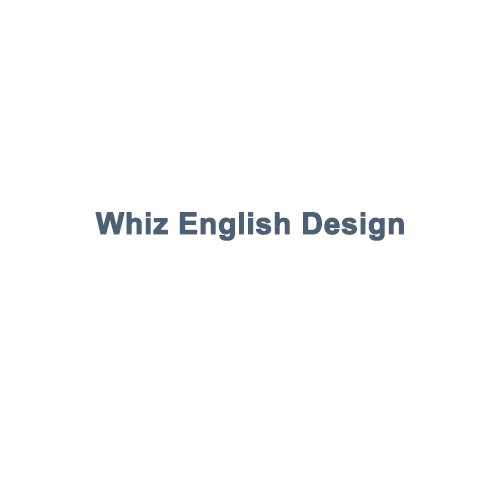
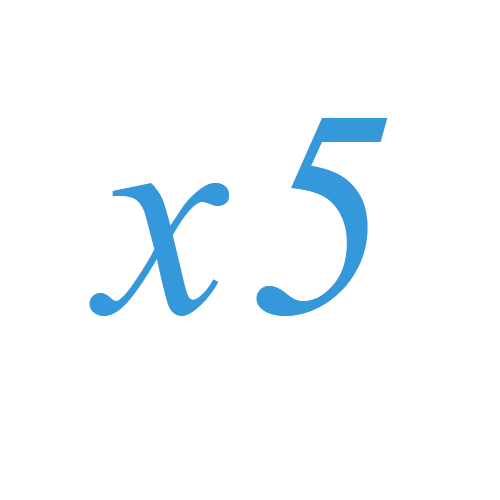
work for update x5 theme

Changed region(s): [[0.18, 0.21, 0.81, 0.63]]

diff --git a/style.css b/style.css
@@ -1,5 +1,5 @@
 /**
- * Theme Name: Whiz English Design
- * Version: 0.0.1
+ * Theme Name: X5 Withcenter LMS Theme
+ * Version: 0.0.2
  *
  */

diff --git a/functions.php b/functions.php
@@ -8,7 +8,7 @@
  */
 
 if ( ! defined('ABC_LIBRARY') ) {
-    echo "whizeng/functions.php: Activate ABC-Library";
+    echo "x5/functions.php: Activate ABC-Library";
     return;
 }
 
@@ -32,14 +32,9 @@ add_action( 'wp_enqueue_scripts', function () {
     wp_enqueue_style( 'state.header', td() . '/css/state.header.css' );
     wp_enqueue_style( 'theme', td() . '/css/theme.css' );
     wp_enqueue_style( 'register', td() . '/css/register.css' );
-
-
-
     wp_enqueue_script( 'theme', td() . '/js/theme.js', array('jquery') );
-
     wp_enqueue_style( 'my-slider-v3', td() . '/css/my-slider-v3.css' );
     wp_enqueue_script( 'my-slider-v3', td() . '/js/my-slider-v3.js', array('jquery') );
-
 });
 
 
@@ -60,51 +55,11 @@ abc()->registerRoute(
         'curriculum',
         'reservation',
         'teacher-list',
+        'reservation',
+        'past'
     ]
 );
 
-
-/**
- * @return array|mixed|object
- *
-
-[idx] => 18070
-[id] => Pia
-[name] => Pia Joy Soriano
-[nickname] => Manager Pia
-[classid] => ontue.teacher.135
-[url_youtube] => http://youtu.be/bXM3FP6iL1Q
-[photo] => ./data/teacher/primary_photo_18070
-[teaching_year] => 5
-[birthday] => 19881121
-[greeting] =>
-Hello there!! ..This is Manager Pia.  If you have any problems in the class, I'm willing to help you.
-
-
-[major] => Bachelor of Science in Nursing
-[gender] => F
- */
-function teacher_list() {
-    $url = 'http://onlineenglish.kr/ajax.php?';
-    $url .= 'id=' . user()->user_login;
-    $url .= '&nickname=' . user()->nickname;
-    $url .= '&name=' . user()->name;
-    $url .= '&email=' . user()->user_email;
-    $url .= '&mobile=' . user()->mobile;
-    $url .= '&landline=' . user()->landline;
-    $url .= '&classid=' . user()->skype;
-    $url .= '&function=teacher_list';
-
-
-    $cid = 'teacher-list' + time() ;
-    $response = get_transient( $cid );
-    if( false === $response ) {
-        $response = wp_remote_get( $url );
-        set_transient( $cid, $response, 60 * 60 ); // 1시간 동안 캐시
-    }
-    $body = json_decode( $response['body'], true );
-    return $body;
-}
 
 function youtube_tag($url, $w=640, $h=390) {
     $arr = explode('/', $url);

diff --git a/reservation.php b/reservation.php
@@ -1,15 +1,6 @@
 <h2>Menu 6</h2>
-저희는 화상영어 학습을 위해서 필리핀 현지에서 2006년 부터 2016년 현재까지 직접 화상 영어 콜센터를 운영하고 있습니다.
-자 그럼, 영어 선생님들은 어떤 곳에서 수업을 하는지 한번 알아볼까요?
 
 
-위 사진은 화상영어 콜센터에 2015년 11월 크리스마스 장식을 한 사진입니다.
-아침 이른 시간에 찍은 사진이라 아직 매니저 선생님들과 영어 선생님들이 출근하기 전이어서 사무실이 비어 있는 것 같이 보입니다.
+<?php
 
-
-
-
-위 사진은 영어 선생님들의 스테이션(station)입니다.
-선생님들은 자신의 자리에서 수업을 합니다.
-주로 25분 단위로 수업을 하며 5분 쉬고 다시 수업을 합니다.
-또한 하루에 30분짜리 휴식이 두개가 있어 식사 또는 쉬는 시간을 갖기도 합니다.
+print_r( reservation_list() );

diff --git a/menu-all.php b/menu-all.php
@@ -2,3 +2,5 @@ Profile Update / Logout<br>
 About us, Level Test, Enrollment, Curriculum, Reservation, Q&A<br>
 
 <a href="<?php hd()?>teacher-list">Teacher List</a><br>
+<a href="<?php hd()?>reservation">Reservation</a><br>
+<a href="<?php hd()?>past">Past Class</a><br>

diff --git a/teacher-list.php b/teacher-list.php
@@ -1,4 +1,4 @@
-<h2>Teacher</h2>
+<h2>X5 Teacher</h2>
 
 <?php
 
